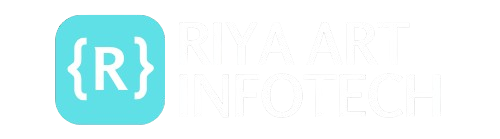
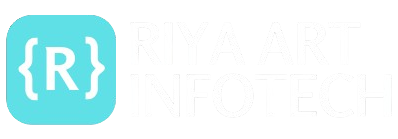
new

Changed region(s): [[0.0, 0.0863, 0.3317, 0.9209]]

diff --git a/src/components/Navbar.jsx b/src/components/Navbar.jsx
@@ -28,7 +28,7 @@ const Navbar = () => {
     >
       <div className="container mx-auto px-3 sm:px-0">
         <nav className="w-full flex py-3 justify-between items-center navbar ">
-          <img src={riyaart1} alt="hoobank" className="w-[200px] h-[55px]" />
+          <img src={riyaart1} alt="hoobank" className="w-[165px] h-[55px]" />
 
           <ul className="list-none sm:flex hidden justify-end items-center flex-1">
             {navLinks.map((nav, index) => (
